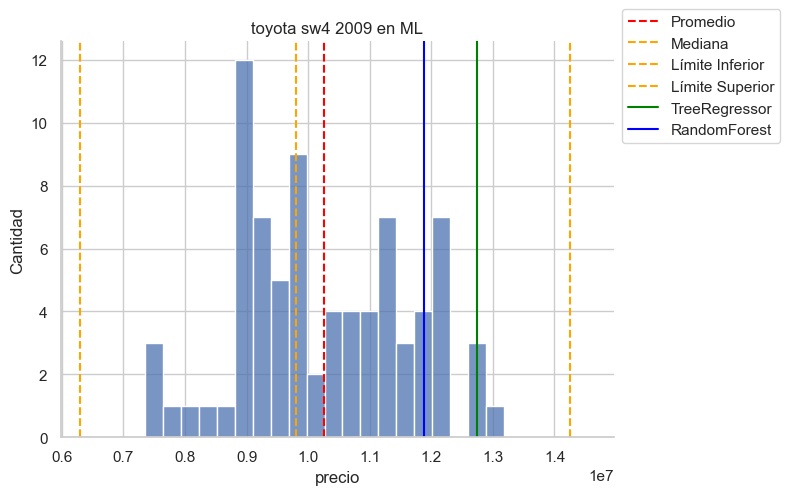
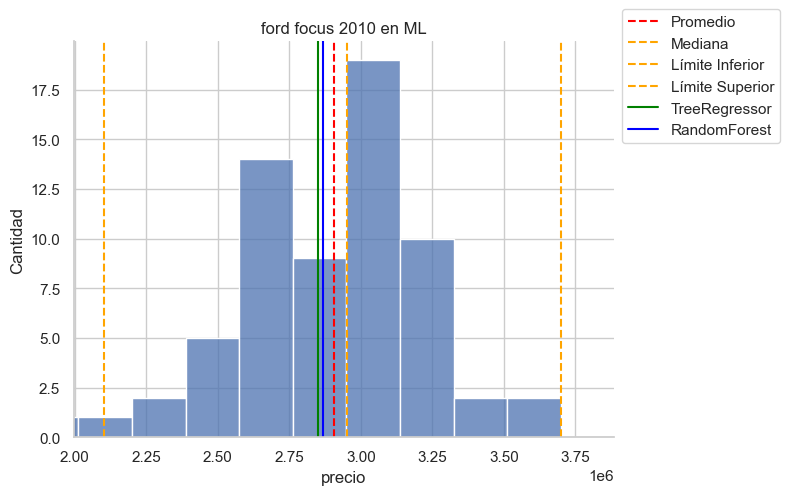
cambio cantidad bins en histplot

diff --git a/app.py b/app.py
@@ -340,7 +340,7 @@ def pred():
 
     # Crear el gráfico usando Seaborn
     sns.set(style="whitegrid")
-    ax = sns.histplot(data=DBauto,x='precio',bins=20)
+    ax = sns.histplot(data=DBauto,x='precio')
     ax.axvline(precio_mean, color='red', linestyle='--', label='Promedio')
     ax.axvline(precio_med, color = 'orange', linestyle= '--', label='Mediana' )
     ax.axvline(lower, color='orange', linestyle='--', label='Límite Inferior')
